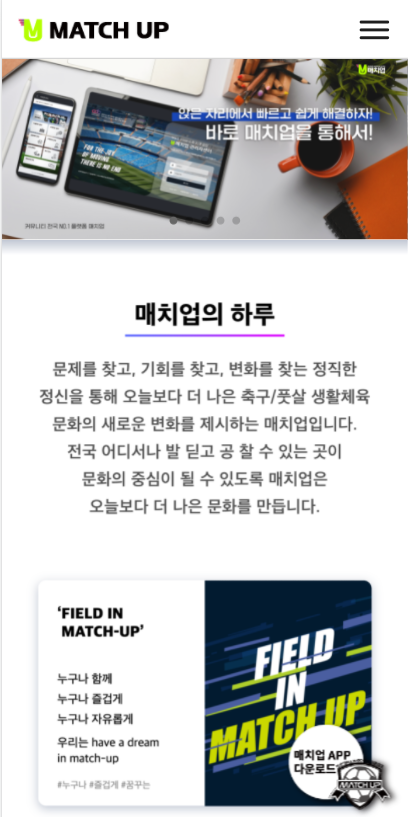
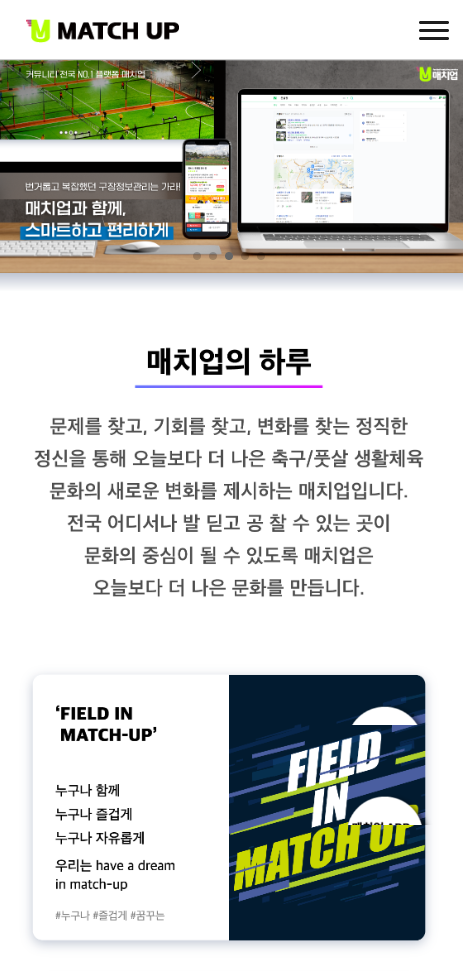
슬라이드 여백및 간격 수정

diff --git a/app/components/user/portfolio/careerBlock.tsx b/app/components/user/portfolio/careerBlock.tsx
@@ -21,7 +21,7 @@ export const PortfolioItemComponent = ({ settings, t }: Props) => {
                 // 🔥 Custom Slider Wrapper
                 const SliderSection = () => (
                     <div className="w-full bg-gray-100 dark:bg-neutral-900">
-                        <div className="rounded-2xl overflow-hidden shadow-lg">
+                        <div className=" overflow-hidden shadow-lg">
                             <ImageSlider images={item.images} />
                         </div>
                     </div>
@@ -32,12 +32,6 @@ export const PortfolioItemComponent = ({ settings, t }: Props) => {
                     if (category === "horizontal") {
                         return (
                             <div className="p-8 lg:p-8 flex flex-col justify-center">
-                                <div
-                                    className={`inline-block px-4 py-1 ${colors.badge} rounded-full text-sm font-semibold mb-8`}
-                                >
-                                    {t(item.category)}
-                                </div>
-
                                 <h3 className="text-3xl font-bold mb-6 text-gray-800 dark:text-white">
                                     {t(item.title)}
                                 </h3>
@@ -127,11 +121,6 @@ export const PortfolioItemComponent = ({ settings, t }: Props) => {
                     // 🔥 vertical layout 그대로
                     return (
                         <div className="p-8 lg:p-8 flex flex-col justify-start">
-                            <div
-                                className={`inline-block px-4 py-1 ${colors.badge} rounded-full text-sm font-semibold mb-6 w-fit`}
-                            >
-                                {t(item.category)}
-                            </div>
 
                             <h3 className="text-3xl font-bold mb-10 text-gray-800 dark:text-white">
                                 {t(item.title)}
@@ -215,8 +204,8 @@ export const PortfolioItemComponent = ({ settings, t }: Props) => {
 
                 // 🔥 Wrapper
                 const Wrapper = ({ children }: { children: React.ReactNode }) => (
-                    <div className="max-w-4xl mx-auto mb-20">
-                        <div className="bg-white dark:bg-neutral-800 rounded-3xl shadow-2xl overflow-hidden border border-gray-100 dark:border-neutral-700">
+                    <div className="max-w-4xl mx-auto mb-20 ">
+                        <div className="bg-white dark:bg-neutral-800 h-[880px] rounded-3xl shadow-2xl overflow-hidden border border-gray-100 dark:border-neutral-700">
                             {children}
                         </div>
                     </div>
@@ -235,13 +224,13 @@ export const PortfolioItemComponent = ({ settings, t }: Props) => {
                 if (category === "vertical") {
                     return (
                         <Wrapper key={item.id}>
-                            <div className="grid lg:grid-cols-2 gap-0">
+                            <div className="h-full grid lg:grid-cols-2 gap-0">
                                 {item.reversed ? (
                                     <>
-                                        <div className="order-2 lg:order-1">
+                                        <div className="order-2 lg:order-1 h-[880px]">
                                             <DetailInfo />
                                         </div>
-                                        <div className="order-1 lg:order-2">
+                                        <div className="order-1 lg:order-2 h-[880px]">
                                             <SliderSection />
                                         </div>
                                     </>

diff --git a/app/lib/image/slide.tsx b/app/lib/image/slide.tsx
@@ -44,7 +44,7 @@ export function ImageSlider({ images }: ImageSliderProps) {
     return (
         <div
             ref={sliderRef}
-            className="relative w-full overflow-hidden rounded-xl cursor-grab active:cursor-grabbing"
+            className="relative w-full h-full overflow-hidden cursor-grab active:cursor-grabbing"
             onMouseDown={(e) => {
                 e.stopPropagation();
                 handleDragStart(e);
@@ -87,7 +87,7 @@ export function ImageSlider({ images }: ImageSliderProps) {
                         <img
                             src={src}
                             alt={`Slide ${index + 1}`}
-                            className="max-w-full max-h-full object-cover pointer-events-none select-none"
+                            className="w-full h-full max-w-full max-h-full object-contain h-auto pointer-events-none select-none"
                             draggable={false}
                             onError={(e) => {
                                 (e.target as HTMLImageElement).src =
